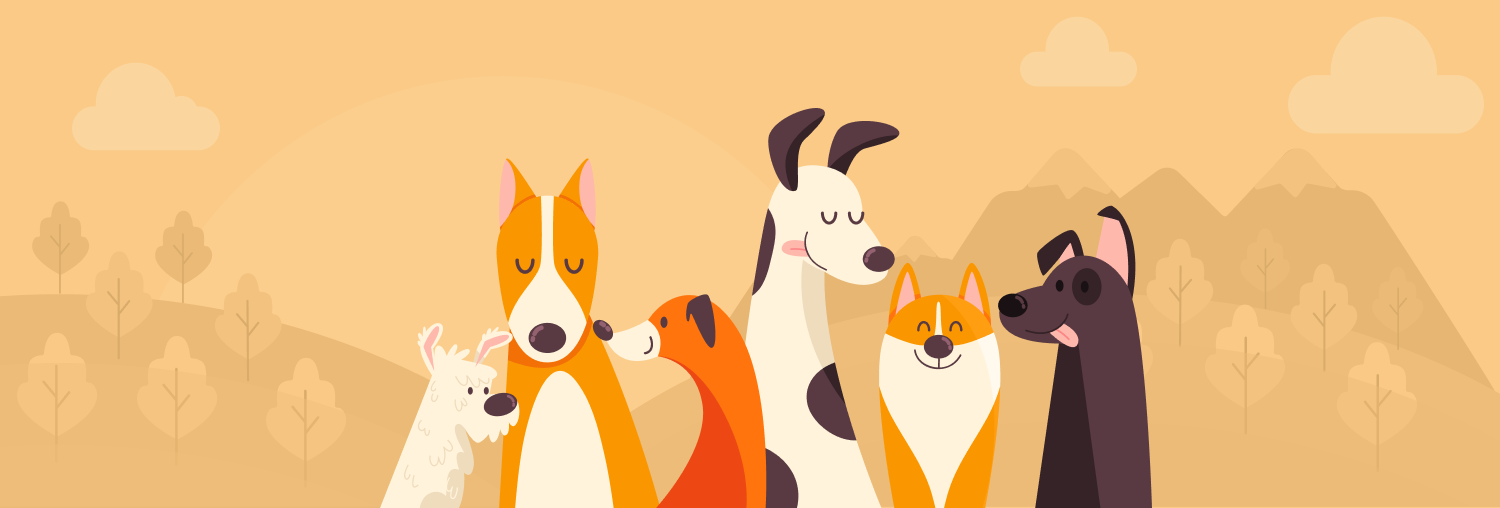
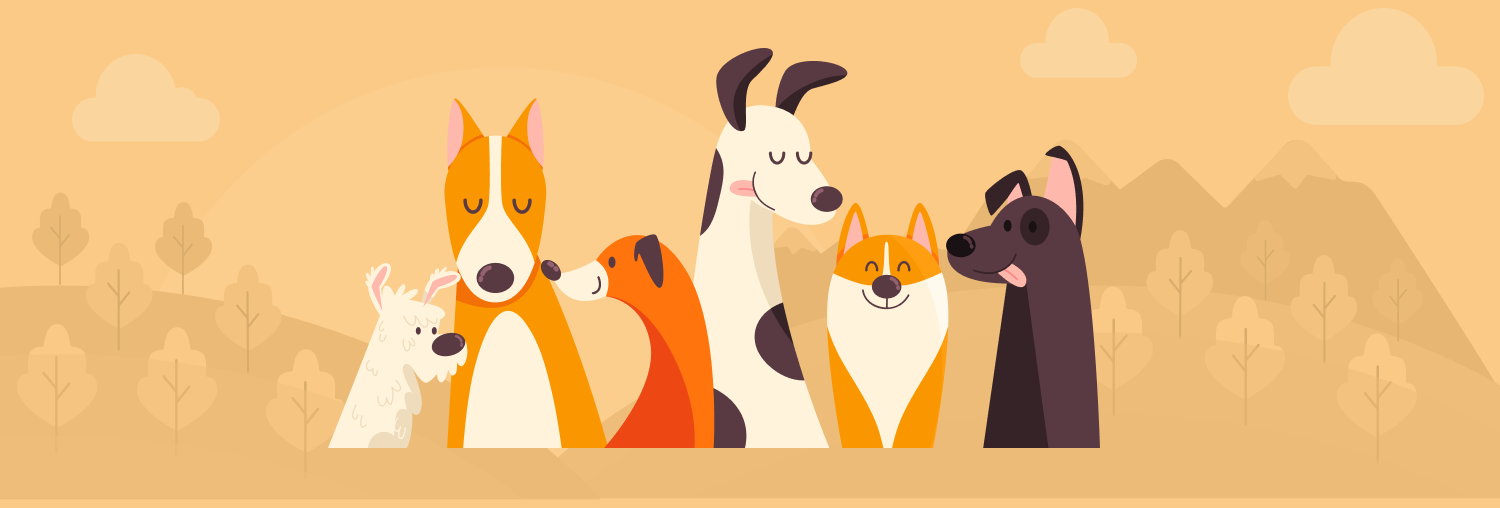
homepage bg fixed

Changed region(s): [[0.2147, 0.0886, 0.7667, 1.0]]

diff --git a/src/features/available-slots/available-slots.tsx b/src/features/available-slots/available-slots.tsx
@@ -16,7 +16,7 @@ type AvailableSlotsProps = {
   onClick?: () => void;
   service: string;
   duration?: number;
-  times?:string[];
+  times?: string[];
 };
 
 const AvailableSlots: React.FC<AvailableSlotsProps> = ({
@@ -27,18 +27,24 @@ const AvailableSlots: React.FC<AvailableSlotsProps> = ({
   duration,
   times,
 }) => {
-
   const [selectedSlot, setSelectedSlot] = React.useState<number>(-1);
 
-  const slots : DailyAvailableSlot[] = useAvailableSlots({date, employees, branches, service, duration, times});
+  const slots: DailyAvailableSlot[] = useAvailableSlots({
+    date,
+    employees,
+    branches,
+    service,
+    duration,
+    times,
+  });
 
   const formatSlot = (slot: DailyAvailableSlot) => {
     const start = new Date(slot.start);
-    if(start.getMinutes() === 0) {
+    if (start.getMinutes() === 0) {
       return `${start.getHours()}:00`;
     }
     return `${start.getHours()}:${start.getMinutes()}`;
-  }
+  };
 
   const sortAndGetUniqueSlots = (slots: DailyAvailableSlot[]) => {
     const sortedSlots = slots.sort((a, b) => {
@@ -47,15 +53,19 @@ const AvailableSlots: React.FC<AvailableSlotsProps> = ({
       return aDate.getTime() - bDate.getTime();
     });
     const set = new Set(sortedSlots.map((slot) => formatSlot(slot))).values();
+    console.log(Array.from(set));
     return Array.from(set);
-  }
+  };
 
   return (
     <div className="slots-wrapper">
-      {sortAndGetUniqueSlots(slots).map((slot,index) => (
-        <div key={slot} onClick={() => setSelectedSlot(index)} className="slot-wrapper">
+      {sortAndGetUniqueSlots(slots).map((slot, index) => (
+        <div
+          key={slot}
+          onClick={() => setSelectedSlot(index)}
+          className="slot-wrapper"
+        >
           <SlotCard
-
             time={slot}
             availabilty={true}
             selected={selectedSlot === index ? true : false}

diff --git a/src/pages/homepage/homepage.tsx b/src/pages/homepage/homepage.tsx
@@ -16,18 +16,23 @@ const HomePage: React.FC = () => {
   return (
     <div className="home-page page">
       <ProfileCard />
-      <RewardsCard rewardCount={100} />
+      {/* <RewardsCard rewardCount={100} /> */}
       <div className="service-row">
-        <ServiceCard
-          title="Grooming"
-          subtitle="Tincidunt ornare massa"
-          svgSrc={svgSrc}
-        />
-        <ServiceCard
-          title="We Wash"
-          subtitle="Tincidunt ornare massa"
-          svgSrc={svgSrc}
-        />
+        <div className="header-row">
+          <h2>Add Appointments</h2>
+        </div>
+        <div className="service-row-flex">
+          <ServiceCard
+            title="Grooming"
+            subtitle="Tincidunt ornare massa"
+            svgSrc={svgSrc}
+          />
+          <ServiceCard
+            title="We Wash"
+            subtitle="Tincidunt ornare massa"
+            svgSrc={svgSrc}
+          />
+        </div>
       </div>
       <div className="appointments-row">
         <div className="header-row">

diff --git a/src/pages/homepage/homepage.css b/src/pages/homepage/homepage.css
@@ -1,10 +1,26 @@
 .service-row {
-  display: flex;
-  justify-content: space-between;
   padding: 1em 1.5em;
-  margin-top: -3em;
+  margin-top: -2em;
   background: #ffffff;
   border-radius: 32px;
+  z-index: 2;
+  position: relative;
+}
+
+.service-row-flex {
+  display: flex;
+  justify-content: space-between;
+}
+
+.service-row .header-row {
+  padding-left: 0.3em !important;
+  padding-top: 1em;
+}
+
+.service-row .header-row h2 {
+  font-weight: 900;
+  color: rgb(46, 46, 46);
+  font-size: 1em;
 }
 
 .appointments-row {

diff --git a/src/components/home/profile-card/profile-card.css b/src/components/home/profile-card/profile-card.css
@@ -4,8 +4,6 @@
   display: flex;
   flex-direction: column;
   align-items: center;
-
-  padding-bottom: 3em;
 }
 
 .row1 {
